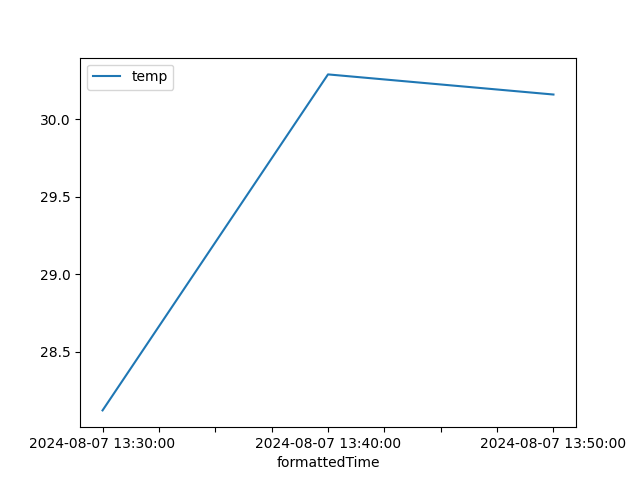
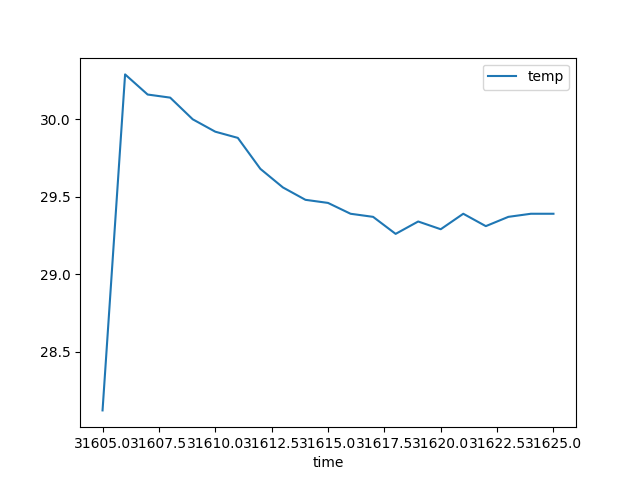
Python client finished (+-)

diff --git a/pythonClient/main.py b/pythonClient/main.py
@@ -1,17 +1,19 @@
 import requests as rq
 from datetime import datetime, timedelta
 import pandas as pd
+import sys
+from PIL import Image
 
 class WeatherData:
-	def __init__(self, index, temp, hum, time):
+	def __init__(self, index, temp, hum, time, year):
 		self.index = index
 		self.temp = temp
 		self.hum = hum
 		self.time = time
-		self.formattedTime = self.time_to_human_readable(2)
+		self.year = year
 
 	@classmethod
-	def from_string(cls, data_string):
+	def from_req_string(cls, data_string, year):
 		if data_string == "":
 			return None
 		data_string = data_string.replace("{", "").replace("}", "")
@@ -20,18 +22,29 @@ class WeatherData:
 		temp = float(data_parts[1].split(":")[1])
 		hum = float(data_parts[2].split(":")[1])
 		time = int(data_parts[3].split(":")[1])
-		return cls(index, temp, hum, time)
+		return cls(index, temp, hum, time, year)
+	
+	@classmethod
+	def from_string(cls, data_string):
+		if data_string == "":
+			return None
+		data_parts = data_string.split(",")
+		index = int(data_parts[0])
+		temp = float(data_parts[1])
+		hum = float(data_parts[2])
+		time = int(data_parts[3])
+		year = int(data_parts[4])
+		return cls(index, temp, hum, time, year)
 
 	def time_to_human_readable(self, timeZone = 0):
-		start_of_year = datetime(datetime.now().year, 1, 1)
+		start_of_year = datetime(self.year, 1, 1)
 		total_minutes = self.time * 10
 		measurement_time = start_of_year + timedelta(minutes=total_minutes)
 		measurement_time += timedelta(hours=timeZone)
 		return measurement_time.strftime('%Y-%m-%d %H:%M:%S')
 	
 	def __str__(self):
-		return (f"Index: {self.index}, Temp: {self.temp}°C, "
-				f"Humidity: {self.hum}%, Time: {self.time_to_human_readable(2)}")
+		return (f"{self.index},{self.temp},{self.hum},{self.time},{self.year}")
 
 def receive_data(url):
 	r = rq.get(url)
@@ -49,31 +62,159 @@ def receive_data(url):
 			toParse.remove(obj)
 		
 	listOfWeatherData = []
+	lastTime = 0
+	year = datetime.now().year
 
 	for obj in toParse:
-		weatherData = WeatherData.from_string(obj)
+		weatherData = WeatherData.from_req_string(obj, year)
+		if weatherData is not None:
+			if weatherData.time > lastTime:
+				lastTime = weatherData.time
+			else:
+				year -= 1
+				lastTime = 0
+
+	lastTime = 0
+
+	for obj in toParse:
+		weatherData = WeatherData.from_req_string(obj, year)
 		if weatherData is not None:
 			listOfWeatherData.append(weatherData)
+			if weatherData.time > lastTime:
+				lastTime = weatherData.time
+			else:
+				year += 1
+				lastTime = 0
+
+
 	
 	return listOfWeatherData
 
+def save_data(listOfWeatherData, filename):
+	with open(filename, 'w') as f:
+		for obj in listOfWeatherData:
+			f.write(str(obj) + "\n")
+
+def read_data(filename):
+	listOfWeatherData = []
+	with open(filename, 'r') as f:
+		for line in f:
+			listOfWeatherData.append(WeatherData.from_string(line))
+	return listOfWeatherData
+
+def merge_data(listOfWeatherData1, listOfWeatherData2):
+	mergedList = listOfWeatherData2
+	try:
+		maxTime = listOfWeatherData1[-1].time
+		minTime = listOfWeatherData1[0].time
+		maxYear = listOfWeatherData1[-1].year
+		minYear = listOfWeatherData1[0].year
+	except:
+		maxTime = 0
+		minTime = -1
+		maxYear = 0
+		minYear = 0
+
+	for obj in listOfWeatherData1:
+		if obj.year > maxYear and obj.time > maxTime:
+			mergedList.append(obj)
+		elif obj.time < minTime and obj.year < minYear:
+			mergedList.insert(0, obj)
 	
+	return mergedList
+
+def updateDataFile():
+
+	try:
+		listOfWeatherDataFromFile_fuera = read_data("fuera.txt")
+	except:
+		listOfWeatherDataFromFile_fuera = []
+	try:
+		listOfWeatherDataFromFile_dentro = read_data("dentro.txt")
+	except:
+		listOfWeatherDataFromFile_dentro = []
+
+	return listOfWeatherDataFromFile_fuera, listOfWeatherDataFromFile_dentro
+
+def updateDataReq(listOfWeatherDataFromFile_fuera, listOfWeatherDataFromFile_dentro):
+
+	listOfWeatherDataReq_fuera = receive_data("http://esp8266fuera.local/")
+	listOfWeatherDataReq_dentro = receive_data("http://esp8266dentro.local/")
+
+	listOfWeatherData_fuera = merge_data(listOfWeatherDataFromFile_fuera, listOfWeatherDataReq_fuera)
+	listOfWeatherData_dentro = merge_data(listOfWeatherDataFromFile_dentro, listOfWeatherDataReq_dentro)
+
+	save_data(listOfWeatherData_fuera, "fuera.txt")
+	save_data(listOfWeatherData_dentro, "dentro.txt")
+
+	return listOfWeatherData_fuera, listOfWeatherData_dentro
+
+def see_data(listOfWeatherData_fuera, listOfWeatherData_dentro):
+	df_fuera = pd.DataFrame([vars(obj) for obj in listOfWeatherData_fuera])
+	df_dentro = pd.DataFrame([vars(obj) for obj in listOfWeatherData_dentro])
+	df_fuera.plot(x='time', y='temp', kind='line').get_figure().savefig('rsc/fuera/tem.png')
+	df_fuera.plot(x='time', y='hum', kind='line').get_figure().savefig('rsc/fuera/hum.png')
+	df_dentro.plot(x='time', y='temp', kind='line').get_figure().savefig('rsc/dentro/tem.png')
+	df_dentro.plot(x='time', y='hum', kind='line').get_figure().savefig('rsc/dentro/hum.png')
+
+	# Join all images in one
+	# https://stackoverflow.com/questions/30227466/combine-several-images-horizontally-with-python
+
+	images = [Image.open('rsc/fuera/tem.png'), Image.open('rsc/fuera/hum.png'), Image.open('rsc/dentro/tem.png'), Image.open('rsc/dentro/hum.png')]
+	widths, heights = zip(*(i.size for i in images))
+
+	total_width = sum(widths)
+	max_height = max(heights)
+
+	new_im = Image.new('RGB', (total_width, max_height))
+
+	x_offset = 0
+	for im in images:
+		new_im.paste(im, (x_offset,0))
+		x_offset += im.size[0]
+
+	new_im.save('rsc/all.png')
+	new_im.show()
+
+def printData(listOfWeatherData):
+	for obj in listOfWeatherData:
+		print(f"Index: {obj.index} Temperature: {obj.temp} Humidity: {obj.hum} Time: {obj.time_to_human_readable(2)}")
 
 def main():
+	listOfWeatherData_fuera, listOfWeatherData_dentro = updateDataFile()
+	while True:
+		print("1. Update data from sensors")
+		print("2. See data img")
+		print("3. See data terminal")
+		print("4. Exit")
+		option = input("Select an option: ")
+		if option == "1":
+			listOfWeatherData_fuera, listOfWeatherData_dentro = updateDataReq(listOfWeatherData_fuera, listOfWeatherData_dentro)
+			print("Data updated")
+		elif option == "2":
+			see_data(listOfWeatherData_fuera, listOfWeatherData_dentro)
+		elif option == "3":
+			print("Data from fuera:")
+			printData(listOfWeatherData_fuera)
+			print("Data from dentro:")
+			printData(listOfWeatherData_dentro)
+		elif option == "4":
+			break
+			
+		else:
+			print("Invalid option")
 	
-	listOfWeatherData_fuera = receive_data("http://esp8266fuera.local/")
-	listOfWeatherData_dentro = receive_data("http://esp8266dentro.local/")
+		
 
-	# Represent the data in a pandas graph x = date y = temp
-	# save it as an image in rsc folder
-	df_fuera = pd.DataFrame([vars(obj) for obj in listOfWeatherData_fuera])
-	df_fuera.plot(x='formattedTime', y='temp', kind='line').get_figure().savefig('rsc/fuera/tem.png')
-	df_fuera.plot(x='formattedTime', y='hum', kind='line').get_figure().savefig('rsc/fuera/hum.png')
-
-	df_dentro = pd.DataFrame([vars(obj) for obj in listOfWeatherData_dentro])
-	df_dentro.plot(x='formattedTime', y='temp', kind='line').get_figure().savefig('rsc/dentro/tem.png')
-	df_dentro.plot(x='formattedTime', y='hum', kind='line').get_figure().savefig('rsc/dentro/hum.png')
+def mainDep():
 	
+	listOfWeatherData_fuera, listOfWeatherData_dentro = updateDataFile()
+	listOfWeatherData_fuera, listOfWeatherData_dentro = updateDataReq(listOfWeatherData_fuera, listOfWeatherData_dentro)
+	
+	save_data(listOfWeatherData_fuera, "fuera.txt")
+	save_data(listOfWeatherData_dentro, "dentro.txt")
+
+	see_data(listOfWeatherData_fuera, listOfWeatherData_dentro)
 
 	
 
